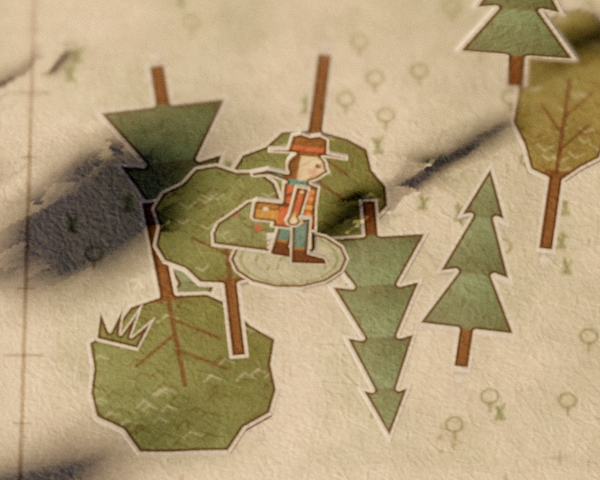
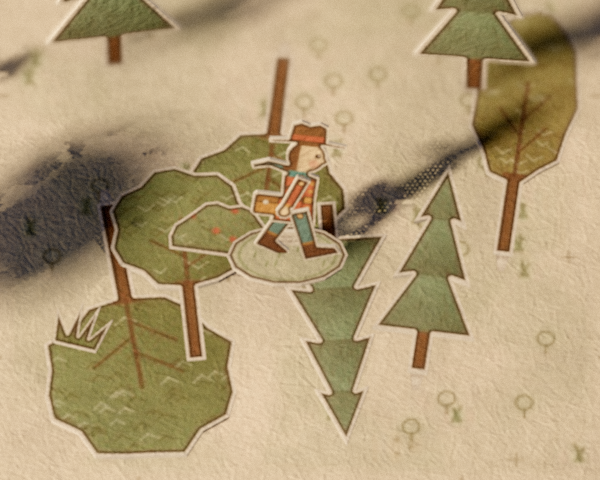
Pull camera in, add blind A/B builder, round 1 pairs

diff --git a/src/traveller.js b/src/traveller.js
@@ -122,7 +122,7 @@ function buildMarker() {
   g.lineCap = 'round';
   const stroke = (x0, y0, x1, y1) => {
     for (let pass = 0; pass < 5; pass++) {
-      g.strokeStyle = `rgba(70,62,54,${0.2 + 0.1 * Math.sin(pass * 2.1)})`;
+      g.strokeStyle = `rgba(58,50,44,${0.3 + 0.1 * Math.sin(pass * 2.1)})`;
       g.lineWidth = 3 + 1.5 * Math.sin(pass * 1.3);
       g.beginPath();
       g.moveTo(x0 + 3 * Math.sin(pass * 3.7), y0 + 3 * Math.cos(pass * 2.9));
@@ -135,7 +135,7 @@ function buildMarker() {
   stroke(102, 30, 28, 98);
   const tex = new THREE.CanvasTexture(c);
   tex.colorSpace = THREE.SRGBColorSpace;
-  const mesh = new THREE.Mesh(new THREE.PlaneGeometry(0.3, 0.3), new THREE.MeshBasicMaterial({
+  const mesh = new THREE.Mesh(new THREE.PlaneGeometry(0.34, 0.34), new THREE.MeshBasicMaterial({
     map: tex, transparent: true, opacity: 0, depthWrite: false, polygonOffset: true, polygonOffsetFactor: -4,
   }));
   mesh.rotation.x = -Math.PI / 2;
@@ -210,6 +210,8 @@ export function createTraveller({ scene, gltf, world, audio }) {
   let slideSide = 1, contactAge = 1;
   const normal = new THREE.Vector2(), scratch = new THREE.Vector2();
   let steps = 0;
+  let lightAge = 10, lightSide = 0;
+  let markerOpacity = 0;
 
   const ok = (x, z) => world.isWalkable(x, z);
 
@@ -309,7 +311,16 @@ export function createTraveller({ scene, gltf, world, audio }) {
     swing(limbs[3], stride * 0.8);
 
     // --- springs, in small fixed steps so they behave the same at any frame rate
+    lightAge += dt;
+    if (lightAge > 1.5) { // the look module owns the lights and may be created later, so look again now and then
+      lightAge = 0;
+      let key = null;
+      scene.traverse((o) => { if (o.isDirectionalLight && (!key || o.intensity > key.intensity)) key = o; });
+      lightSide = key ? Math.sign(key.position.x - key.target.position.x) : 0;
+    }
     if (vel.x > 0.3 * SPEED) facing = 1; else if (vel.x < -0.3 * SPEED) facing = -1;
+    // Walking straight up or down the page, either side may show: pick the one that turns towards the key light.
+    else if (lightSide && Math.abs(vel.y) > 0.6 * SPEED) facing = (vel.y < 0 ? 1 : -1) * lightSide;
     let yawGoal = facing > 0 ? 0 : Math.PI;
     if (vel.lengthSq() > 0.09) {
       const full = Math.atan2(-vel.y, vel.x * facing); // angle away from the facing side's rest pose
@@ -331,14 +342,12 @@ export function createTraveller({ scene, gltf, world, audio }) {
     standYaw.rotation.y = yaw;
     lean.rotation.set(leanZ - TILT_BACK, 0, -leanX);
 
-    // --- pencil mark
-    const age = input.markerAge ?? Infinity;
-    const fade = Math.max(0, 1 - age / 1.6);
-    marker.visible = fade > 0;
-    if (marker.visible) {
-      marker.position.set(input.markerPos.x, 0.012, input.markerPos.z);
-      marker.material.opacity = 0.5 * fade * fade;
-    }
+    // --- pencil mark: stays while the walk is on, then fades
+    const shown = input.target && !input.held && (input.markerAge ?? Infinity) < 6;
+    markerOpacity += ((shown ? 0.7 : 0) - markerOpacity) * (1 - Math.exp(-dt * (shown ? 12 : 4)));
+    marker.visible = markerOpacity > 0.01;
+    if (shown) marker.position.set(input.markerPos.x, 0.012, input.markerPos.z);
+    marker.material.opacity = markerOpacity;
   }
 
   return { position, heading, update, get speed() { return speedNow; }, get yaw() { return yaw; },

diff --git a/src/input.js b/src/input.js
@@ -28,6 +28,7 @@ export function createInput(dom, camera) {
     dir, camera, markerPos,
     target: null, // Vector3 on the page while a click-walk is active
     markerAge: Infinity, // seconds since the pencil mark was placed
+    held: false, // pointer is down, the target follows it
     walkable: null, // (x, z) => bool, installed by the traveller
     auto: false,
     setAuto(v) { api.auto = !!v; auto.fresh = true; },
@@ -86,7 +87,6 @@ export function createInput(dom, camera) {
     keys.add(e.code);
     clearTarget();
     pointerDown = false;
-    api.markerAge = Math.max(api.markerAge, 1.2); // hurry the pencil mark away
   });
   addEventListener('keyup', (e) => keys.delete(e.code));
   addEventListener('blur', () => { keys.clear(); pointerDown = false; });
@@ -285,6 +285,7 @@ export function createInput(dom, camera) {
       return;
     }
 
+    api.held = pointerDown;
     if (pointerDown) pick(); // the camera moves, so the point under a held pointer moves too
     if (api.target) {
       const dx = api.target.x - p.x, dz = api.target.z - p.z;
@@ -292,7 +293,7 @@ export function createInput(dom, camera) {
       // Give up on a target the traveller cannot make progress towards (blocked cell).
       if (dist < lastDist - 0.02) { lastDist = dist; stuckTime = 0; } else stuckTime += dt;
       if (dist <= ARRIVE_RADIUS || (stuckTime > 0.6 && !pointerDown)) {
-        if (!pointerDown) { clearTarget(); api.markerAge = Math.max(api.markerAge, 1.2); }
+        if (!pointerDown) clearTarget();
         dir.set(0, 0);
         return;
       }

diff --git a/src/cameraRig.js b/src/cameraRig.js
@@ -3,7 +3,7 @@
 import * as THREE from 'three';
 
 const PITCH = THREE.MathUtils.degToRad(55); // degrees below the horizon
-const DISTANCE = 21; // FOV 28 at 16:9 -> ~18.6 units (9.3 cells) across the screen at the focus point
+const DISTANCE = 13; // lead: pulled in to ~11.5 units across so cards show thickness (see LOG)
 const OMEGA = 7; // follow spring: ramp lag 2/OMEGA = 0.29 s, 63 % step time 2.15/OMEGA = 0.31 s
 const LOOK_AHEAD = 1.3; // units the view leads in the heading direction
 const LOOK_OMEGA = 2.2; // slow, so reversing direction pans gently

diff --git a/docs/LOG.md b/docs/LOG.md
@@ -161,3 +161,44 @@
 - TILES AGENT: on tiles drawn at rot 1 or 3 (east-west paths and rivers, corners) every flap stands edge-on to the
   camera, because hinges are along local X. Free-standing props on those tiles (flowers, tufts, milestones, reeds) would
   read better with hinges authored at 45 degrees or as V-folds. Card back faces render almost black when lit from behind.
+
+## 2026-11-17 23:59 UTC traveller agent
+- Replaced the stubs: `src/input.js`, `src/traveller.js`, `src/cameraRig.js`. Added `tools/trav_test.mjs`
+  (`node tools/trav_test.mjs [--real] [--auto 40] [--shots] [--shots-only]`, 32 checks, all pass; it stubs the Vite
+  client so hot reloads from other agents' edits cannot restart the page mid-run).
+- Measured (headless Chrome, Metal, 60 Hz): walk speed 2.20 u/s; 95 % speed in 0.10 s; 3.6 footfalls/s (17 in 5 s
+  from rest); hop apex 0.060; landing squash 5.5 %; facing flip 0.083 s with 15 % overshoot; click-to-walk arrival
+  error 0.009-0.014 u on a straight line; camera step response 63 % at 0.30 s (50 % 0.23 s, 90 % 0.55 s, no
+  overshoot); camera velocity deviation while walking 0.03-0.05 %; pitch 54.5 deg; 18.4 units across at 16:9.
+- Camera follow is an exact critically damped step that accounts for the target's velocity, so it is frame-rate
+  independent: an offline run at 144 Hz, 60 Hz, 20 Hz and random 4-50 ms steps gives the same lead (0.6714 u) and a
+  velocity error below 1e-12 u/s. NOT measured in the browser at other frame rates (CPU throttling did not change the
+  60 Hz frame time).
+- Auto mode: 40 s covers 87-88 u of path (limit is 88) on the open, synthetic and real worlds; real world seed 1 nets
+  59 u forward in 40 s; seeds 2, 3, 7 ran 150 s each with 296-317 u of path and 162-172 u forward, crossing rivers at
+  bridges, never inside a blocked position. Route search costs 0.8-2 ms median every 0.5 s, 4-12 ms on the first.
+- Collision: bisect to the surface, axis slide, then a tangent slide from a sampled obstacle normal; head-on at a convex
+  obstacle steps round it, a wall or concave corner holds still (0 frame-to-frame movement, 0 reversals).
+- ASSUMPTION: the card turns at most 40 deg from camera-facing (full turn would put it edge-on to the camera when
+  walking up or down the page); it mirrors by a 180 deg springy flip for left/right.
+- ASSUMPTION: the card rests tilted back 0.3 rad (as in the concept frames) so its face reads from the 55 deg camera.
+- ASSUMPTION: when walking straight up or down the page the card shows the side that turns towards the strongest
+  DirectionalLight in the scene (read from the scene every 1.5 s); without one it keeps its last facing.
+- ASSUMPTION: the stand hops with the figure but does not lean; the card above it leans and wobbles on the tab.
+- ASSUMPTION: the pencil mark stays while a click-walk is active and fades on arrival or cancel (6 s at most); it is
+  hidden while the pointer is held. Under the tilt-shift blur it is only legible near the focus band.
+- Extras beyond the contract (read-only, used by tools): `input.camera`, `input.target`, `input.markerPos`,
+  `input.markerAge`, `input.held`, `input.planMs`, `input.walkable` (installed by the traveller on its first update);
+  `traveller.speed`, `.yaw`, `.steps`, `.hop`, `.squash`. Auto state resets on `setAuto(true)` or a teleport > 2 u.
+- The procedural fallback figure stays in traveller.js and is used when the glb has no `traveller` node; the glb node
+  (faces +X, normal Z, identity part rotations) is used as authored, no changes needed from the tiles agent.
+- For the lead / look agent: at 18.4 units across the traveller is about 45 px tall at 1440 wide. The spec floor is
+  9 cells; a closer camera needs a contract change. DISTANCE and PITCH are constants at the top of cameraRig.js.
+
+## 2026-11-18 lead — integration, camera change, critic round 1
+- All seven components integrated and committed (a5f259f). Quiet-machine perf: p95 4.3–6.3 ms, 27 draw calls, 245k tris.
+- CONTRACT CHANGE (lead): camera DISTANCE 21 -> 13 (about 11.5 units across). Reason: at 18.6 units across the traveller
+  was ~40 px and cards could not show thickness; concept frames see 4.5–12.6 units. World rise region must follow.
+- Known gaps before critic: page mottling too grey/dirty vs concept cream; pale card colours; edge-on small flaps on
+  rotated tiles; near-black card backs; flat printed bridge deck; house walls intersect mid-fold.
+- Blind A/B round 1 built with tools/ab.mjs (random left/right, key in critic/round1/key.json, critic may not read it).
